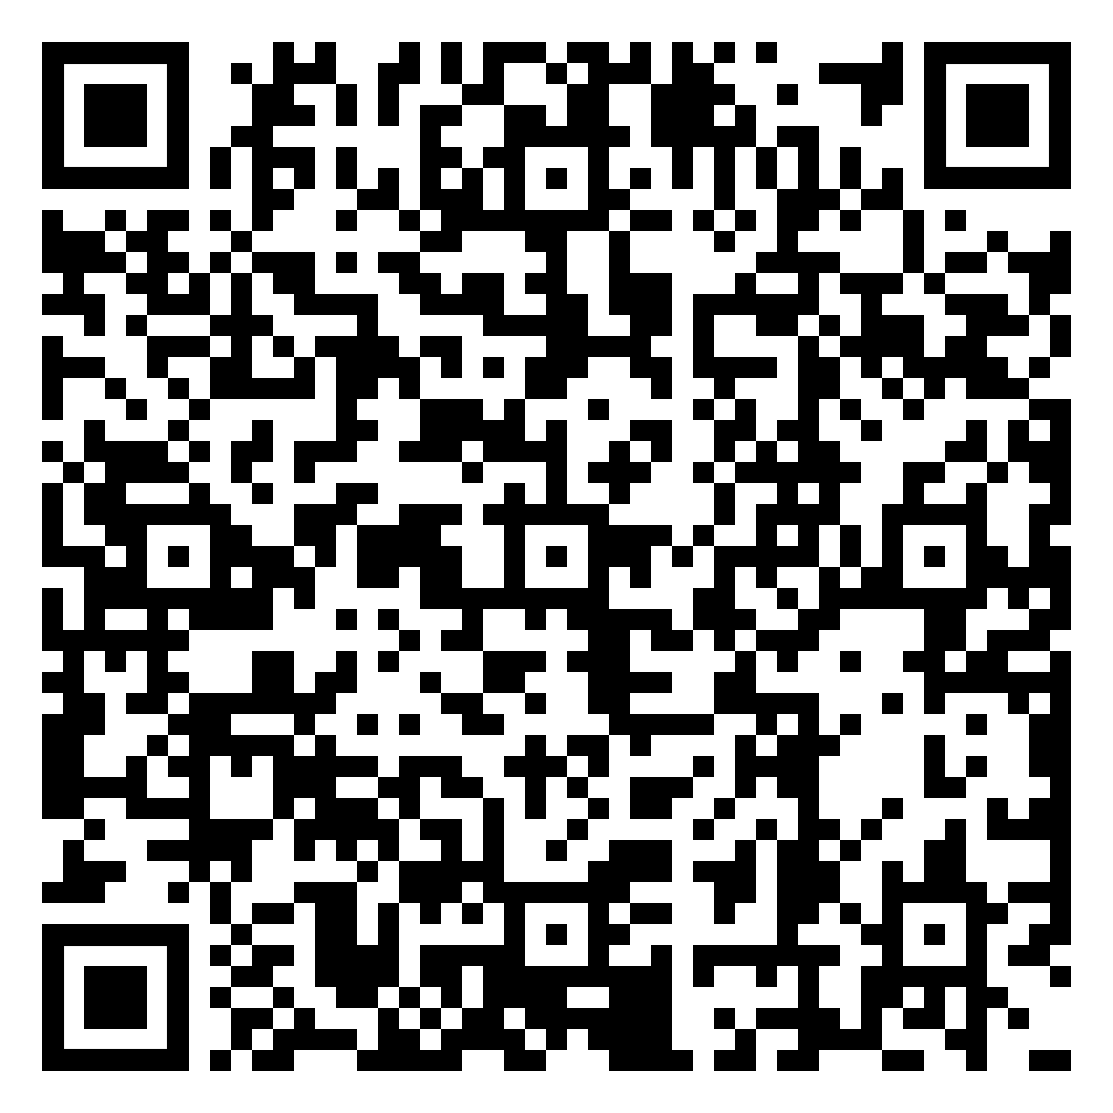
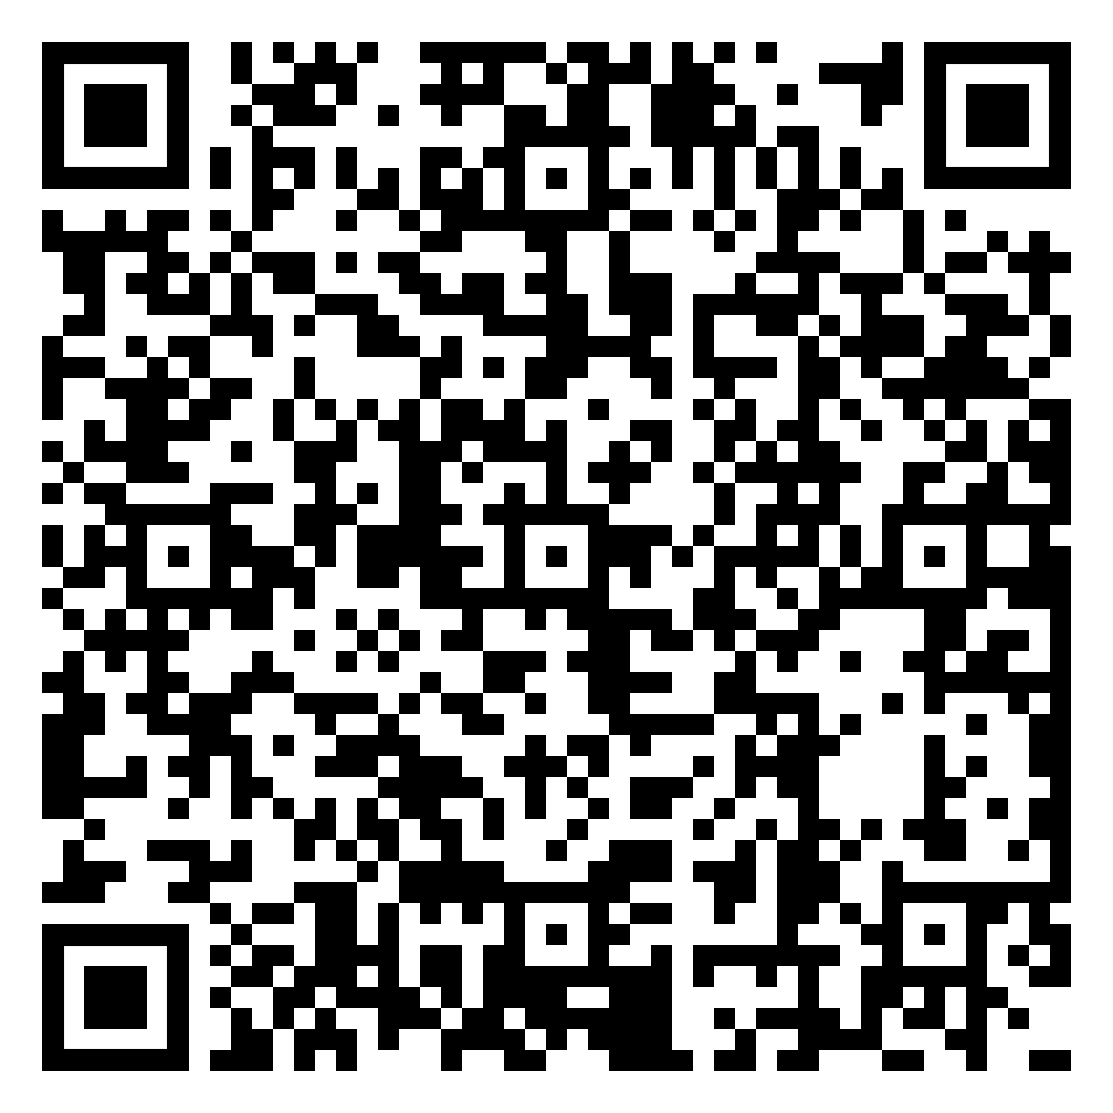
Update F-Droid repository link in README.md

diff --git a/README.md b/README.md
@@ -11,10 +11,10 @@ This repository hosts an [F-Droid](https://f-droid.org/) repo for my apps. This 
 
 ### How to use
 1. At first, you should [install the F-Droid app](https://f-droid.org/), it's an alternative app store for Android.
-2. Now you can copy the following [link](https://raw.githubusercontent.com/notnotrachit/fdroid/main/fdroid/repo?fingerprint=316cdc49ab0a7d71270eca564962e76b21baa30b8bb2ff68039bd34eca0bdbb2), then add this repository to your F-Droid client:
+2. Now you can copy the following [link](https://raw.githubusercontent.com/FOSS-Club-BU/fdroid/main/fdroid/repo?fingerprint=316cdc49ab0a7d71270eca564962e76b21baa30b8bb2ff68039bd34eca0bdbb2), then add this repository to your F-Droid client:
 
     ```
-    https://raw.githubusercontent.com/notnotrachit/fdroid/main/fdroid/repo?fingerprint=316cdc49ab0a7d71270eca564962e76b21baa30b8bb2ff68039bd34eca0bdbb2
+    https://raw.githubusercontent.com/FOSS-Club-BU/fdroid/main/fdroid/repo?fingerprint=316cdc49ab0a7d71270eca564962e76b21baa30b8bb2ff68039bd34eca0bdbb2
     ```
 
     Alternatively, you can also scan this QR code:
